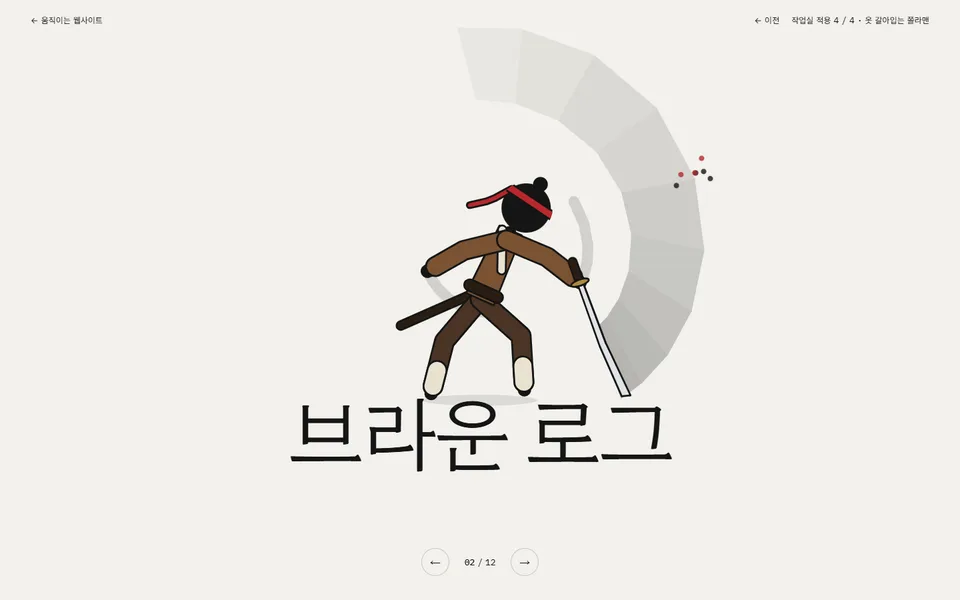
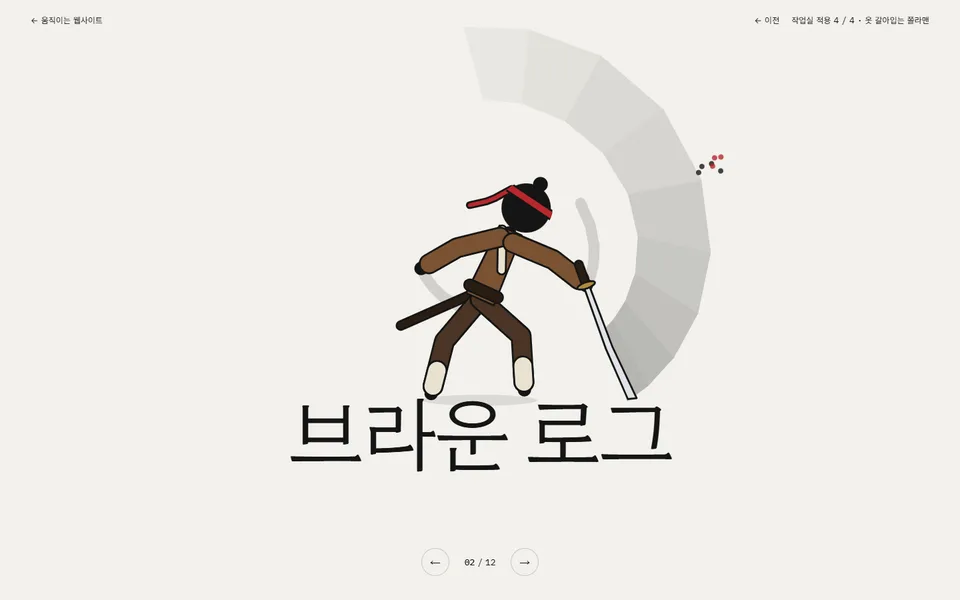
옷 갈아입는 쫄라맨: 팔을 몸통 양옆 어깨에, 프밍기 노트는 의자·책상·노트북(화면 90°)에 앉아 타자, 안경 옆모습으로, 인공지능 입문 나무를 더 오른쪽에, LMS는 한 손 체크판·한 손 연필, 레이싱은 운전석에 앉게

diff --git a/web-motion/apply/stick.html b/web-motion/apply/stick.html
@@ -45,7 +45,7 @@ const norm = (p, q) => { const d = Math.hypot(q[0] - p[0], q[1] - p[1]) || 1; re
 
 /* ───────── 몸 ───────── */
 // 굵은 검은 선 + 얼굴 없는 동그란 머리(몸통과 살짝 떨어짐), 손발은 둥근 끝
-const LEN = { T: .33, N: .024, R: .112, UA: .2, FA: .19, TH: .25, SH: .245, W: .062 };
+const LEN = { T: .33, N: .024, R: .112, UA: .2, FA: .19, TH: .25, SH: .245, W: .062, SW: .055 };
 const BASE = { x: 0, y: 0, t: 0, h: 0, f: 0, la1: -18, la2: -8, ra1: 18, ra2: 8, ll1: -10, ll2: -4, rl1: 10, rl2: 4, rot: 0, sq: 0,
   ik: 0, ikL: 0, ikR: 0, ikf: 0, st: 0, sw: 0, pd: 26, pg: 0, row: 0, env: 1 };
 // 넘길 때: 웅크림 → 늘어나며 뜀 → 무릎 당겨 공중제비 → 펴기 → 찌그러지며 착지 → 섬
@@ -58,12 +58,15 @@ const JUMP = [[240, "io", CROUCH], [90, "o", LAUNCH], [190, "o", TUCK], [180, "l
 
 function rig(p, S, gx, gy, now) {
   const hip = [0, 0], neck = at(hip, 180 - p.t, LEN.T), head = at(neck, 180 - p.t - p.h, LEN.N + LEN.R), sh = at(neck, -p.t, .035);
-  const eL = at(sh, p.la1, LEN.UA), hL = at(eL, p.la2, LEN.FA), eR = at(sh, p.ra1, LEN.UA), hR = at(eR, p.ra2, LEN.FA);
+  // 어깨: 앞모습이면 몸통 양옆(어깨 폭), 옆모습이면 몸통 선의 앞·뒤 가장자리(오른팔이 바라보는 쪽)
+  const o = LEN.SW * (1 - Math.abs(p.f)) + LEN.W / 2 * p.f, ct = Math.cos(p.t * D), st = Math.sin(p.t * D);
+  const shR = [sh[0] + ct * o, sh[1] + st * o], shL = [sh[0] - ct * o, sh[1] - st * o];
+  const eL = at(shL, p.la1, LEN.UA), hL = at(eL, p.la2, LEN.FA), eR = at(shR, p.ra1, LEN.UA), hR = at(eR, p.ra2, LEN.FA);
   const kL = at(hip, p.ll1, LEN.TH), fL = at(kL, p.ll2, LEN.SH), kR = at(hip, p.rl1, LEN.TH), fR = at(kR, p.rl2, LEN.SH);
   const low = Math.max(fL[1], fR[1], kL[1], kR[1]) + LEN.W / 2;
   const ox = gx + p.x * S, oy = gy - low * S + p.y * S, px = q => [ox + q[0] * S, oy + q[1] * S];
   const th = (p.t + p.h) * D;
-  return { p, S, gx, gy, now, hip: px(hip), neck: px(neck), head: px(head), sh: px(sh), eL: px(eL), hL: px(hL), eR: px(eR), hR: px(hR),
+  return { p, S, gx, gy, now, hip: px(hip), neck: px(neck), head: px(head), sh: px(sh), shL: px(shL), shR: px(shR), eL: px(eL), hL: px(hL), eR: px(eR), hR: px(hR),
     kL: px(kL), fL: px(fL), kR: px(kR), fR: px(fR), R: LEN.R * S, lw: S * LEN.W, ol: Math.max(1.3, S * .0085),
     ct: Math.cos(p.t * D), st: Math.sin(p.t * D), hc: Math.cos(th), hs: Math.sin(th) };
 }
@@ -80,7 +83,7 @@ function solve(a, b, l1, l2, bend) {
 // 팔·다리 끝을 목표에 붙임(w만큼 섞음)
 function reach(r, limb, target, w, bend) {
   if (w <= 0) return;
-  const [root, j, e, l1, l2] = { L: ["sh", "eL", "hL", LEN.UA, LEN.FA], R: ["sh", "eR", "hR", LEN.UA, LEN.FA], fL: ["hip", "kL", "fL", LEN.TH, LEN.SH], fR: ["hip", "kR", "fR", LEN.TH, LEN.SH] }[limb];
+  const [root, j, e, l1, l2] = { L: ["shL", "eL", "hL", LEN.UA, LEN.FA], R: ["shR", "eR", "hR", LEN.UA, LEN.FA], fL: ["hip", "kL", "fL", LEN.TH, LEN.SH], fR: ["hip", "kR", "fR", LEN.TH, LEN.SH] }[limb];
   const [J, X] = solve(r[root], target, l1 * r.S, l2 * r.S, bend);
   r[j] = L2(r[j], J, w); r[e] = L2(r[e], X, w);
 }
@@ -104,7 +107,7 @@ function smooth(g, pts, close) { // 점들을 부드러운 곡선으로
 const top = (r, c, len = .34, w0 = .088, w1 = .1) => [T(r, -w0, -.012), T(r, w0, -.012), T(r, w1, len), T(r, -w1, len)];
 // 옷은 굵은 팔다리보다 조금 더 두껍게
 const CW = LEN.W + .016; // 소매·바지 굵기
-function sleeves(g, r, c, k = .82) { const w = CW * r.S; band(g, r, [r.sh, r.eL, L2(r.eL, r.hL, k)], w, c); band(g, r, [r.sh, r.eR, L2(r.eR, r.hR, k)], w, c); }
+function sleeves(g, r, c, k = .82) { const w = CW * r.S; band(g, r, [r.shL, r.eL, L2(r.eL, r.hL, k)], w, c); band(g, r, [r.shR, r.eR, L2(r.eR, r.hR, k)], w, c); }
 function pants(g, r, c, k = .9) { const w = CW * r.S; band(g, r, [r.hip, r.kL, L2(r.kL, r.fL, k)], w, c); band(g, r, [r.hip, r.kR, L2(r.kR, r.fR, k)], w, c); }
 function heart(g, x, y, s, c) { g.beginPath(); g.moveTo(x, y + s * .35); g.bezierCurveTo(x - s * .9, y - s * .3, x - s * .35, y - s * .95, x, y - s * .42); g.bezierCurveTo(x + s * .35, y - s * .95, x + s * .9, y - s * .3, x, y + s * .35); g.fillStyle = c; g.fill(); }
 
@@ -112,7 +115,7 @@ function drawBody(g, r, col = INK, w = r.lw) {
   g.strokeStyle = col; g.lineWidth = w; g.lineCap = g.lineJoin = "round";
   path(g, [r.fL, r.kL, r.hip, r.kR, r.fR]); g.stroke();
   path(g, [r.hip, r.neck]); g.stroke();
-  path(g, [r.hL, r.eL, r.sh, r.eR, r.hR]); g.stroke();
+  path(g, [r.hL, r.eL, r.shL, r.shR, r.eR, r.hR]); g.stroke();
 }
 const drawHead = (g, r) => dot(g, r.head, r.R, INK);
 
@@ -220,9 +223,9 @@ const C = [
   items: [
     { at: "hip", on: "wipe", layer: "front", draw(g, r) { // 마네킹 몸
       const w = .08 * r.S, c = "#e6e3db";
-      for (const seg of [[r.fL, r.kL, r.hip], [r.hip, r.kR, r.fR], [r.hL, r.eL, r.sh, r.eR, r.hR]]) band(g, r, seg, w, c);
+      for (const seg of [[r.fL, r.kL, r.hip], [r.hip, r.kR, r.fR], [r.hL, r.eL, r.shL, r.shR, r.eR, r.hR]]) band(g, r, seg, w, c);
       band(g, r, [r.hip, L2(r.hip, r.neck, .55), r.neck], .1 * r.S, c);
-      for (const j of [r.kL, r.kR, r.eL, r.eR, r.hip, r.sh]) dot(g, j, .028 * r.S, "#ff6a1a", r.ol);
+      for (const j of [r.kL, r.kR, r.eL, r.eR, r.hip, r.shL, r.shR]) dot(g, j, .028 * r.S, "#ff6a1a", r.ol);
     } },
     { at: "head", on: "drop", layer: "head", draw(g, r) { g.beginPath(); g.ellipse(r.head[0], r.head[1] - r.R * .05, r.R * 1.0, r.R * 1.14, (r.p.t + r.p.h) * D, 0, 7); g.fillStyle = "#e6e3db"; g.fill(); g.lineWidth = r.ol; g.strokeStyle = INK; g.stroke(); } },
   ],
@@ -246,11 +249,13 @@ const C = [
   },
   on: { land(r) { for (const s of [-1, 1]) for (let i = 0; i < 4; i++) spark(r.gx + s * .12 * r.S, r.gy, { vx: s * rnd(.3, .9) * r.S, vy: -rnd(.05, .3) * r.S, life: .55, draw(g, p) { g.globalAlpha *= (1 - p.age / p.life) * .5; dot(g, [p.x, p.y], r.S * (.015 + p.age * .05), "#c9c6bc"); } }); } } },
 
-{ t: "프로그래밍기초 복습 노트", base: { f: 1, t: 8, ik: 1, ll1: 82, ll2: -72, rl1: 86, rl2: -80 },
+{ t: "프로그래밍기초 복습 노트", base: { f: 1, x: -.2, t: 10, ik: 1, ll1: 84, ll2: -2, rl1: 88, rl2: 3 },
+  // 의자에 앉아 책상 위 노트북(화면 90°)으로 타자. 가구는 땅 기준이라 몸이 움직여도 제자리
+  desk(r) { const S = r.S, X = r.gx + r.p.x * S, top = r.gy - .44 * S; return { S, X, top, kb: top - .026 * S, lid: X + .5 * S }; },
   post(r) {
-    const S = r.S, j = Math.sin(r.now / 42) * .008 * S, k = Math.cos(r.now / 37) * .008 * S;
-    reach(r, "R", [r.hip[0] + .2 * S, r.hip[1] - .05 * S + j], r.p.ik, 1);
-    reach(r, "L", [r.hip[0] + .15 * S, r.hip[1] - .045 * S + k], r.p.ik, 1);
+    const { S, X, kb } = this.desk(r), j = Math.sin(r.now / 42) * .008 * S, k = Math.cos(r.now / 37) * .008 * S;
+    reach(r, "R", [X + .37 * S, kb + j], r.p.ik, 1);
+    reach(r, "L", [X + .31 * S, kb + k], r.p.ik, 1);
   },
   items: [
     { at: "neck", on: "wipe", layer: "front", draw(g, r) { // 후드티
@@ -259,19 +264,24 @@ const C = [
       band(g, r, [T(r, .01, .01), T(r, .02, .09)], .008 * r.S, PAPER, false);
       sleeves(g, r, c, .9);
     } },
-    { at: "head", on: "drop", layer: "head", draw(g, r) { // 안경
-      const f = r.p.f, sep = .36 * (1 - .55 * Math.abs(f)), cx = .3 * f;
-      g.lineWidth = r.ol * 1.4; g.strokeStyle = PAPER;
-      for (const s of [-1, 1]) { const e = H(r, cx + s * sep / 2, -.05); g.beginPath(); g.arc(e[0], e[1], r.R * .2, 0, 7); g.stroke(); }
-      path(g, [H(r, cx - sep / 2 - .2, -.08), H(r, cx - sep / 2 - .55 * Math.sign(f || 1), -.12)]); g.stroke();
+    { at: "head", on: "drop", layer: "head", draw(g, r) { // 안경(옆모습: 앞쪽 알 하나 + 귀로 가는 다리)
+      const a = (r.p.t + r.p.h) * D, e = H(r, .72, -.1, 1);
+      g.strokeStyle = "#8d929c"; g.lineWidth = r.ol * 1.3; g.lineCap = "round"; path(g, [e, H(r, -.15, -.18, 1)]); g.stroke();
+      g.beginPath(); g.ellipse(e[0], e[1], r.R * .3, r.R * .24, a, 0, 7); g.fillStyle = "rgba(205,226,255,.9)"; g.fill(); g.lineWidth = r.ol * 1.4; g.strokeStyle = INK; g.stroke();
     } },
-    { at: "hip", on: "toss", layer: "hand", draw(g, r) { // 노트북(무릎 위)
-      const S = r.S, b0 = [r.hip[0] + .04 * S, r.hip[1] - .02 * S], b1 = [r.hip[0] + .36 * S, r.hip[1] + .005 * S], l1 = [r.hip[0] + .28 * S, r.hip[1] - .25 * S];
-      shape(g, r, [b0, b1, [b1[0], b1[1] + .018 * S], [b0[0], b0[1] + .018 * S]], "#9aa0aa");
-      shape(g, r, [b1, l1, [l1[0] + .022 * S, l1[1] - .004 * S], [b1[0] + .02 * S, b1[1]]], "#9aa0aa");
-      const sc = [L2(b1, l1, .1), L2(b1, l1, .92)];
-      band(g, r, sc, .012 * S, "#1e2230", false);
-      g.lineWidth = .006 * S; ["#7fb0ff", "#ffd27f", "#9fe0a8", "#7fb0ff"].forEach((c, i) => { g.strokeStyle = c; const p = L2(sc[0], sc[1], .15 + i * .2); path(g, [[p[0] - .004 * S, p[1]], [p[0] - .004 * S + .002 * S, p[1] - .03 * S]]); });
+    { at: "gnd", on: "pop", layer: "back", draw(g, r) { // 의자
+      const { S, X } = this.desk(r), seat = r.gy - .27 * S, x0 = X - .14 * S, x1 = X + .1 * S, c = "#8a6a4a";
+      band(g, r, [[x0 + .015 * S, seat - .34 * S], [x0 + .015 * S, r.gy]], .024 * S, c);
+      band(g, r, [[x1 - .015 * S, seat], [x1 - .015 * S, r.gy]], .02 * S, c);
+      shape(g, r, [[x0, seat], [x1, seat], [x1, seat + .028 * S], [x0, seat + .028 * S]], c);
+    } },
+    { at: "gnd", on: "drop", layer: "back", draw(g, r) { // 책상 + 노트북
+      const { S, X, top, lid } = this.desk(r), c = "#c9a77c";
+      for (const x of [.36, .66]) band(g, r, [[X + x * S, top], [X + x * S, r.gy]], .022 * S, c);
+      shape(g, r, [[X + .17 * S, top], [X + .72 * S, top], [X + .72 * S, top + .03 * S], [X + .17 * S, top + .03 * S]], c);
+      shape(g, r, [[X + .26 * S, top - .016 * S], [lid + .018 * S, top - .016 * S], [lid + .018 * S, top], [X + .26 * S, top]], "#9aa0aa");
+      shape(g, r, [[lid, top - .016 * S], [lid + .018 * S, top - .016 * S], [lid + .018 * S, top - .24 * S], [lid, top - .24 * S]], "#9aa0aa");
+      band(g, r, [[lid - .004 * S, top - .03 * S], [lid - .004 * S, top - .225 * S]], .007 * S, "#7fb0ff", false);
     } },
   ],
   keys: [
@@ -284,7 +294,8 @@ const C = [
   fx(g, r, tl, a) {
     if (tl < 2000 && Math.random() < .045) {
       const s = r.S, w = ["{", "}", ";", "int", "for", "printf", "0x1F", "&&", "++", "*p"][Math.random() * 10 | 0];
-      spark(r.hip[0] + rnd(.25, .38) * s, r.hip[1] - rnd(.18, .26) * s, { vx: rnd(.12, .3) * s, vy: -rnd(.28, .45) * s, life: 1.5, w,
+      const { X, top } = this.desk(r);
+      spark(X + .5 * s, top - rnd(.2, .26) * s, { vx: rnd(.12, .3) * s, vy: -rnd(.28, .45) * s, life: 1.5, w,
         draw(g, p) { g.globalAlpha *= Math.sin(Math.PI * p.age / p.life) * .9; g.fillStyle = p.w.length > 2 ? "#2b44a6" : INK; g.font = `500 ${Math.max(12, .055 * s)}px "IBM Plex Mono", monospace`; g.fillText(p.w, p.x, p.y); } });
     }
   },
@@ -293,17 +304,17 @@ const C = [
     dot(g, [p.x, p.y], .07 * s * sc, "#2b44a6"); g.strokeStyle = "#fff"; g.lineWidth = .014 * s * sc; g.lineCap = g.lineJoin = "round";
     path(g, [[p.x - .03 * s * sc, p.y], [p.x - .008 * s * sc, p.y + .022 * s * sc], [p.x + .033 * s * sc, p.y - .022 * s * sc]]); g.stroke(); } }); } } },
 
-{ t: "인공지능 입문 복습 노트", base: { f: 1 },
-  nodes: [[.62, -1.02], [.42, -.68], [.84, -.68], [.32, -.34], [.52, -.34], [.74, -.34], [.94, -.34]],
+{ t: "인공지능 입문 복습 노트", base: { f: 1, x: -.32 },
+  nodes: [[.92, -1.02], [.72, -.68], [1.14, -.68], [.62, -.34], [.82, -.34], [1.04, -.34], [1.24, -.34]],
   edges: [[0, 1], [0, 2], [1, 3], [1, 4], [2, 5], [2, 6]],
   visit: [[1000, 0], [1400, 1], [1800, 3], [2200, 4], [2600, 2], [3000, 5]],
-  pos(r, i) { const n = this.nodes[i]; return [r.gx + n[0] * r.S, r.gy + n[1] * r.S]; },
+  pos(r, i) { const n = this.nodes[i]; return [r.gx + (n[0] + r.p.x) * r.S, r.gy + n[1] * r.S]; },
   post(r, tl) {
     const v = this.visit; let k = 0; while (k < v.length - 1 && tl > v[k + 1][0]) k++;
     const u = k < v.length - 1 ? E.io(cl((tl - v[k + 1][0] + 260) / 260)) : 0;
     const tg = L2(this.pos(r, v[k][1]), this.pos(r, v[Math.min(k + 1, v.length - 1)][1]), u);
-    const d = norm(r.sh, tg), L = (LEN.UA + LEN.FA) * r.S * .97;
-    reach(r, "R", [r.sh[0] + d[0] * L, r.sh[1] + d[1] * L], r.p.ik, -1);
+    const d = norm(r.shR, tg), L = (LEN.UA + LEN.FA) * r.S * .97;
+    reach(r, "R", [r.shR[0] + d[0] * L, r.shR[1] + d[1] * L], r.p.ik, -1);
     r.glow = cl((tl - 3000) / 200) * cl((4500 - tl) / 300);
   },
   items: [
@@ -342,12 +353,12 @@ const C = [
     g.restore();
   } },
 
-{ t: "LMS 할 일·알림", base: { f: 1, ikL: 1 },
-  board(r) { return [r.hL[0] + .03 * r.S, r.hL[1] - .06 * r.S]; },
+{ t: "LMS 할 일·알림", base: { f: 0, ikL: 1 },
+  board(r) { return [r.hL[0] + .075 * r.S, r.hL[1] - .05 * r.S]; }, // 왼손이 판 왼쪽 가장자리를 잡음
   post(r, tl) {
-    const S = r.S; reach(r, "L", T(r, .27, .2), r.p.ikL, -1);
+    const S = r.S; reach(r, "L", [r.neck[0] - .05 * S, r.neck[1] + .25 * S], r.p.ikL, 1);
     const b = this.board(r), row = r.p.row, box = [b[0] - .04 * S, b[1] - .05 * S + row * .055 * S];
-    const u = norm(r.sh, box); reach(r, "R", [box[0] - u[0] * .19 * S, box[1] - u[1] * .19 * S], r.p.ikR, -1);
+    const u = norm(r.shR, box); reach(r, "R", [box[0] - u[0] * .19 * S, box[1] - u[1] * .19 * S], r.p.ikR, -1);
     r.checks = this.checks; r.ring = r.now - (this.ringAt || -1e9) < 900 ? 1 : 0;
   },
   checks: 0,
@@ -367,7 +378,7 @@ const C = [
       if (r.ring) { g.strokeStyle = INK; g.lineWidth = r.ol * 1.3; for (const s of [-1, 1]) for (let i = 0; i < 3; i++) { const a = -Math.PI / 2 + s * (.5 + i * .3); path(g, [[c[0] + Math.cos(a) * .15 * S, c[1] - .06 * S + Math.sin(a) * .15 * S], [c[0] + Math.cos(a) * .2 * S, c[1] - .06 * S + Math.sin(a) * .2 * S]]); g.stroke(); } }
     } },
     { at: "hL", on: "toss", layer: "hand", draw(g, r) { // 할 일 판
-      const S = r.S, b = [r.hL[0] + .03 * S, r.hL[1] - .06 * S];
+      const S = r.S, b = this.board(r);
       g.beginPath(); g.roundRect(b[0] - .085 * S, b[1] - .12 * S, .17 * S, .23 * S, .012 * S); g.fillStyle = "#b0875a"; g.fill(); g.lineWidth = r.ol; g.strokeStyle = INK; g.stroke();
       g.fillStyle = PAPER; g.fillRect(b[0] - .07 * S, b[1] - .095 * S, .14 * S, .19 * S); g.strokeRect(b[0] - .07 * S, b[1] - .095 * S, .14 * S, .19 * S);
       for (let i = 0; i < 3; i++) { const y = b[1] - .05 * S + i * .055 * S; g.strokeRect(b[0] - .055 * S, y - .015 * S, .03 * S, .03 * S);
@@ -380,15 +391,15 @@ const C = [
         g.fillStyle = "#f4a6b8"; g.fillRect(-.065 * S, -.014 * S, .025 * S, .028 * S); g.strokeRect(-.065 * S, -.014 * S, .025 * S, .028 * S); dot(g, [.195 * S, 0], .005 * S, INK); }); } },
   ],
   keys: [
-    [600, "io", { ikL: 1, ikR: 0, h: 10, ra1: 32, ra2: 64, ll1: -14, ll2: -6, rl1: 16, rl2: 6 }, "reset"],
-    [500, "io", { ikL: 1, ikR: 0, h: 12, ra1: 30, ra2: 60, ll1: -14, ll2: -6, rl1: 16, rl2: 6 }, "ring"],
-    [150, "o", { y: -.16, ikL: 1, t: -10, h: -10, ra1: 155, ra2: 172, ll1: -24, ll2: -40, rl1: 30, rl2: -12 }],
-    [260, "i", { y: 0, ikL: 1, t: 4, ra1: 70, ra2: 100, ll1: -26, ll2: 6, rl1: 30, rl2: -6 }],
-    [380, "io", { ikL: 1, ikR: 1, row: 0, h: 10, ll1: -14, ll2: -6, rl1: 16, rl2: 6 }, "tick"],
-    [320, "io", { ikL: 1, ikR: 1, row: 1, h: 10, ll1: -14, ll2: -6, rl1: 16, rl2: 6 }, "tick"],
-    [320, "io", { ikL: 1, ikR: 1, row: 2, h: 10, ll1: -14, ll2: -6, rl1: 16, rl2: 6 }, "tick"],
-    [260, "o", { ikL: 1, ikR: 0, t: -6, h: -6, ra1: 158, ra2: 172, ll1: -14, ll2: -6, rl1: 16, rl2: 6 }],
-    [860, "io", { ikL: 1, ikR: 0, t: -5, h: -4, ra1: 152, ra2: 166, ll1: -14, ll2: -6, rl1: 16, rl2: 6 }],
+    [600, "io", { ikL: 1, ikR: 0, h: 4, ra1: 22, ra2: 10 }, "reset"],
+    [500, "io", { ikL: 1, ikR: 0, h: 6, ra1: 20, ra2: 8 }, "ring"],
+    [150, "o", { y: -.16, ikL: 1, h: -4, ra1: 150, ra2: 165, ll1: -35, ll2: 10, rl1: 35, rl2: -10 }],
+    [260, "i", { y: 0, ikL: 1, h: 0, ra1: 60, ra2: 30, ll1: -24, ll2: 4, rl1: 24, rl2: -4 }],
+    [380, "io", { ikL: 1, ikR: 1, row: 0, h: 6 }, "tick"],
+    [320, "io", { ikL: 1, ikR: 1, row: 1, h: 6 }, "tick"],
+    [320, "io", { ikL: 1, ikR: 1, row: 2, h: 6 }, "tick"],
+    [260, "o", { ikL: 1, ikR: 0, h: -4, ra1: 155, ra2: 170 }],
+    [860, "io", { ikL: 1, ikR: 0, h: -2, ra1: 150, ra2: 165 }],
   ],
   on: { reset() { this.checks = 0; }, ring() { this.ringAt = performance.now(); }, tick(r) { this.checks = Math.min(3, this.checks + 1); } } },
 
@@ -521,8 +532,8 @@ const C = [
     for (let i = 0; i < 6; i++) spark(r.gx + rnd(-.3, .3) * r.S, r.neck[1] + rnd(-.1, .1) * r.S, { vx: rnd(-.1, .1) * r.S, vy: -rnd(.25, .45) * r.S, life: rnd(1, 1.6), ph: rnd(0, 6), c: i % 2 ? "#f2a5b5" : "#c7b4e8",
       draw(g, p) { g.globalAlpha *= Math.sin(Math.PI * p.age / p.life); heart(g, p.x + Math.sin(p.age * 5 + p.ph) * .03 * r.S, p.y, .05 * r.S, p.c); } }); } } },
 
-{ t: "레이싱 휠", base: { f: 0, ik: 1, y: .2, ll1: -34, ll2: 20, rl1: 34, rl2: -20 },
-  post(r) { const S = r.S, c = T(r, 0, .25), a = r.p.st * D, R = .13 * S; r.wheel = c;
+{ t: "레이싱 휠", base: { f: 0, ik: 1, y: -.08, ll1: -95, ll2: 80, rl1: 95, rl2: -80 }, // 다리는 접어 차체 뒤에
+  post(r) { const S = r.S, c = T(r, 0, .12), a = r.p.st * D, R = .13 * S; r.wheel = c;
     reach(r, "L", [c[0] - Math.cos(a) * R, c[1] - Math.sin(a) * R], r.p.ik, -1); reach(r, "R", [c[0] + Math.cos(a) * R, c[1] + Math.sin(a) * R], r.p.ik, 1); },
   items: [
     { at: "neck", on: "wipe", layer: "front", draw(g, r) { shape(g, r, top(r, 0, .34, .092, .104), "#d6332c"); for (const s of [-1, 1]) band(g, r, [T(r, s * .03, -.005), T(r, s * .03, .33)], .014 * r.S, PAPER, false); sleeves(g, r, "#d6332c", .86); dot(g, r.hL, .028 * r.S, INK); dot(g, r.hR, .028 * r.S, INK); } },
@@ -544,7 +555,7 @@ const C = [
       g.strokeStyle = "rgba(255,255,255,.7)"; g.lineWidth = r.R * .08; path(g, [[r.R * .2, -r.R * .3], [r.R * .5, r.R * .04]]); g.stroke(); g.restore();
     } },
     { at: "neck", on: "toss", layer: "hand", draw(g, r) { // 핸들
-      const c = r.wheel || T(r, 0, .25), R = .13 * r.S, a = r.p.st * D;
+      const c = r.wheel || T(r, 0, .12), R = .13 * r.S, a = r.p.st * D;
       g.save(); g.translate(c[0], c[1]); g.rotate(a);
       g.beginPath(); g.arc(0, 0, R, 0, 7); g.lineWidth = .026 * r.S + r.ol * 2; g.strokeStyle = INK; g.stroke(); g.lineWidth = .026 * r.S; g.strokeStyle = "#2a2d35"; g.stroke();
       for (const b of [-Math.PI / 2 + Math.PI, 0, Math.PI]) { path(g, [[0, 0], [Math.cos(b) * R, Math.sin(b) * R]]); g.lineWidth = .016 * r.S; g.strokeStyle = "#2a2d35"; g.stroke(); }
@@ -552,13 +563,13 @@ const C = [
     } },
   ],
   keys: [
-    [520, "io", { ik: 1, st: -55, t: -8, h: -4, y: 0 }],
+    [520, "io", { ik: 1, st: -55, t: -8, h: -4, y: -.08 }],
     [420, "io", { ik: 1, st: -55, t: -8, h: -4 }],
     [620, "io", { ik: 1, st: 50, t: 8, h: 4 }],
     [420, "io", { ik: 1, st: 50, t: 8, h: 4 }],
     [420, "io", { ik: 1, st: 0, t: 0, h: 0 }],
-    [140, "o", { ik: 1, st: 4, y: -.035 }],
-    [180, "i", { ik: 1, st: 0, y: 0 }],
+    [140, "o", { ik: 1, st: 4, y: -.115 }],
+    [180, "i", { ik: 1, st: 0, y: -.08 }],
     [300, "io", { ik: 1, st: -6 }],
   ],
   fxBack(g, r, tl, a) { // 앞으로 달리는 속도선
@@ -575,7 +586,7 @@ const C = [
   pedal(r) { const S = r.S, gx = r.gx + .38 * S, hinge = [gx - .12 * S, r.gy - .035 * S], a = r.p.pd * D, end = [hinge[0] + Math.cos(a) * .3 * S, hinge[1] - Math.sin(a) * .3 * S]; return { gx, hinge, end, a }; },
   post(r) {
     const S = r.S, P = this.pedal(r);
-    if (r.p.ikh > 0) { const bolt = L2(P.hinge, P.end, .45), sp = r.now / 120, h = [bolt[0] + Math.cos(sp) * .025 * S, bolt[1] + Math.sin(sp) * .025 * S], u = norm(r.sh, h); reach(r, "R", [h[0] - u[0] * .17 * S, h[1] - u[1] * .17 * S], r.p.ikh, 1); r.bolt = bolt; }
+    if (r.p.ikh > 0) { const bolt = L2(P.hinge, P.end, .45), sp = r.now / 120, h = [bolt[0] + Math.cos(sp) * .025 * S, bolt[1] + Math.sin(sp) * .025 * S], u = norm(r.shR, h); reach(r, "R", [h[0] - u[0] * .17 * S, h[1] - u[1] * .17 * S], r.p.ikh, 1); r.bolt = bolt; }
     if (r.p.ikf > 0) { const foot = L2(P.hinge, P.end, .62); reach(r, "fR", [foot[0], foot[1] - .022 * S], r.p.ikf, -1); }
   },
   items: [
